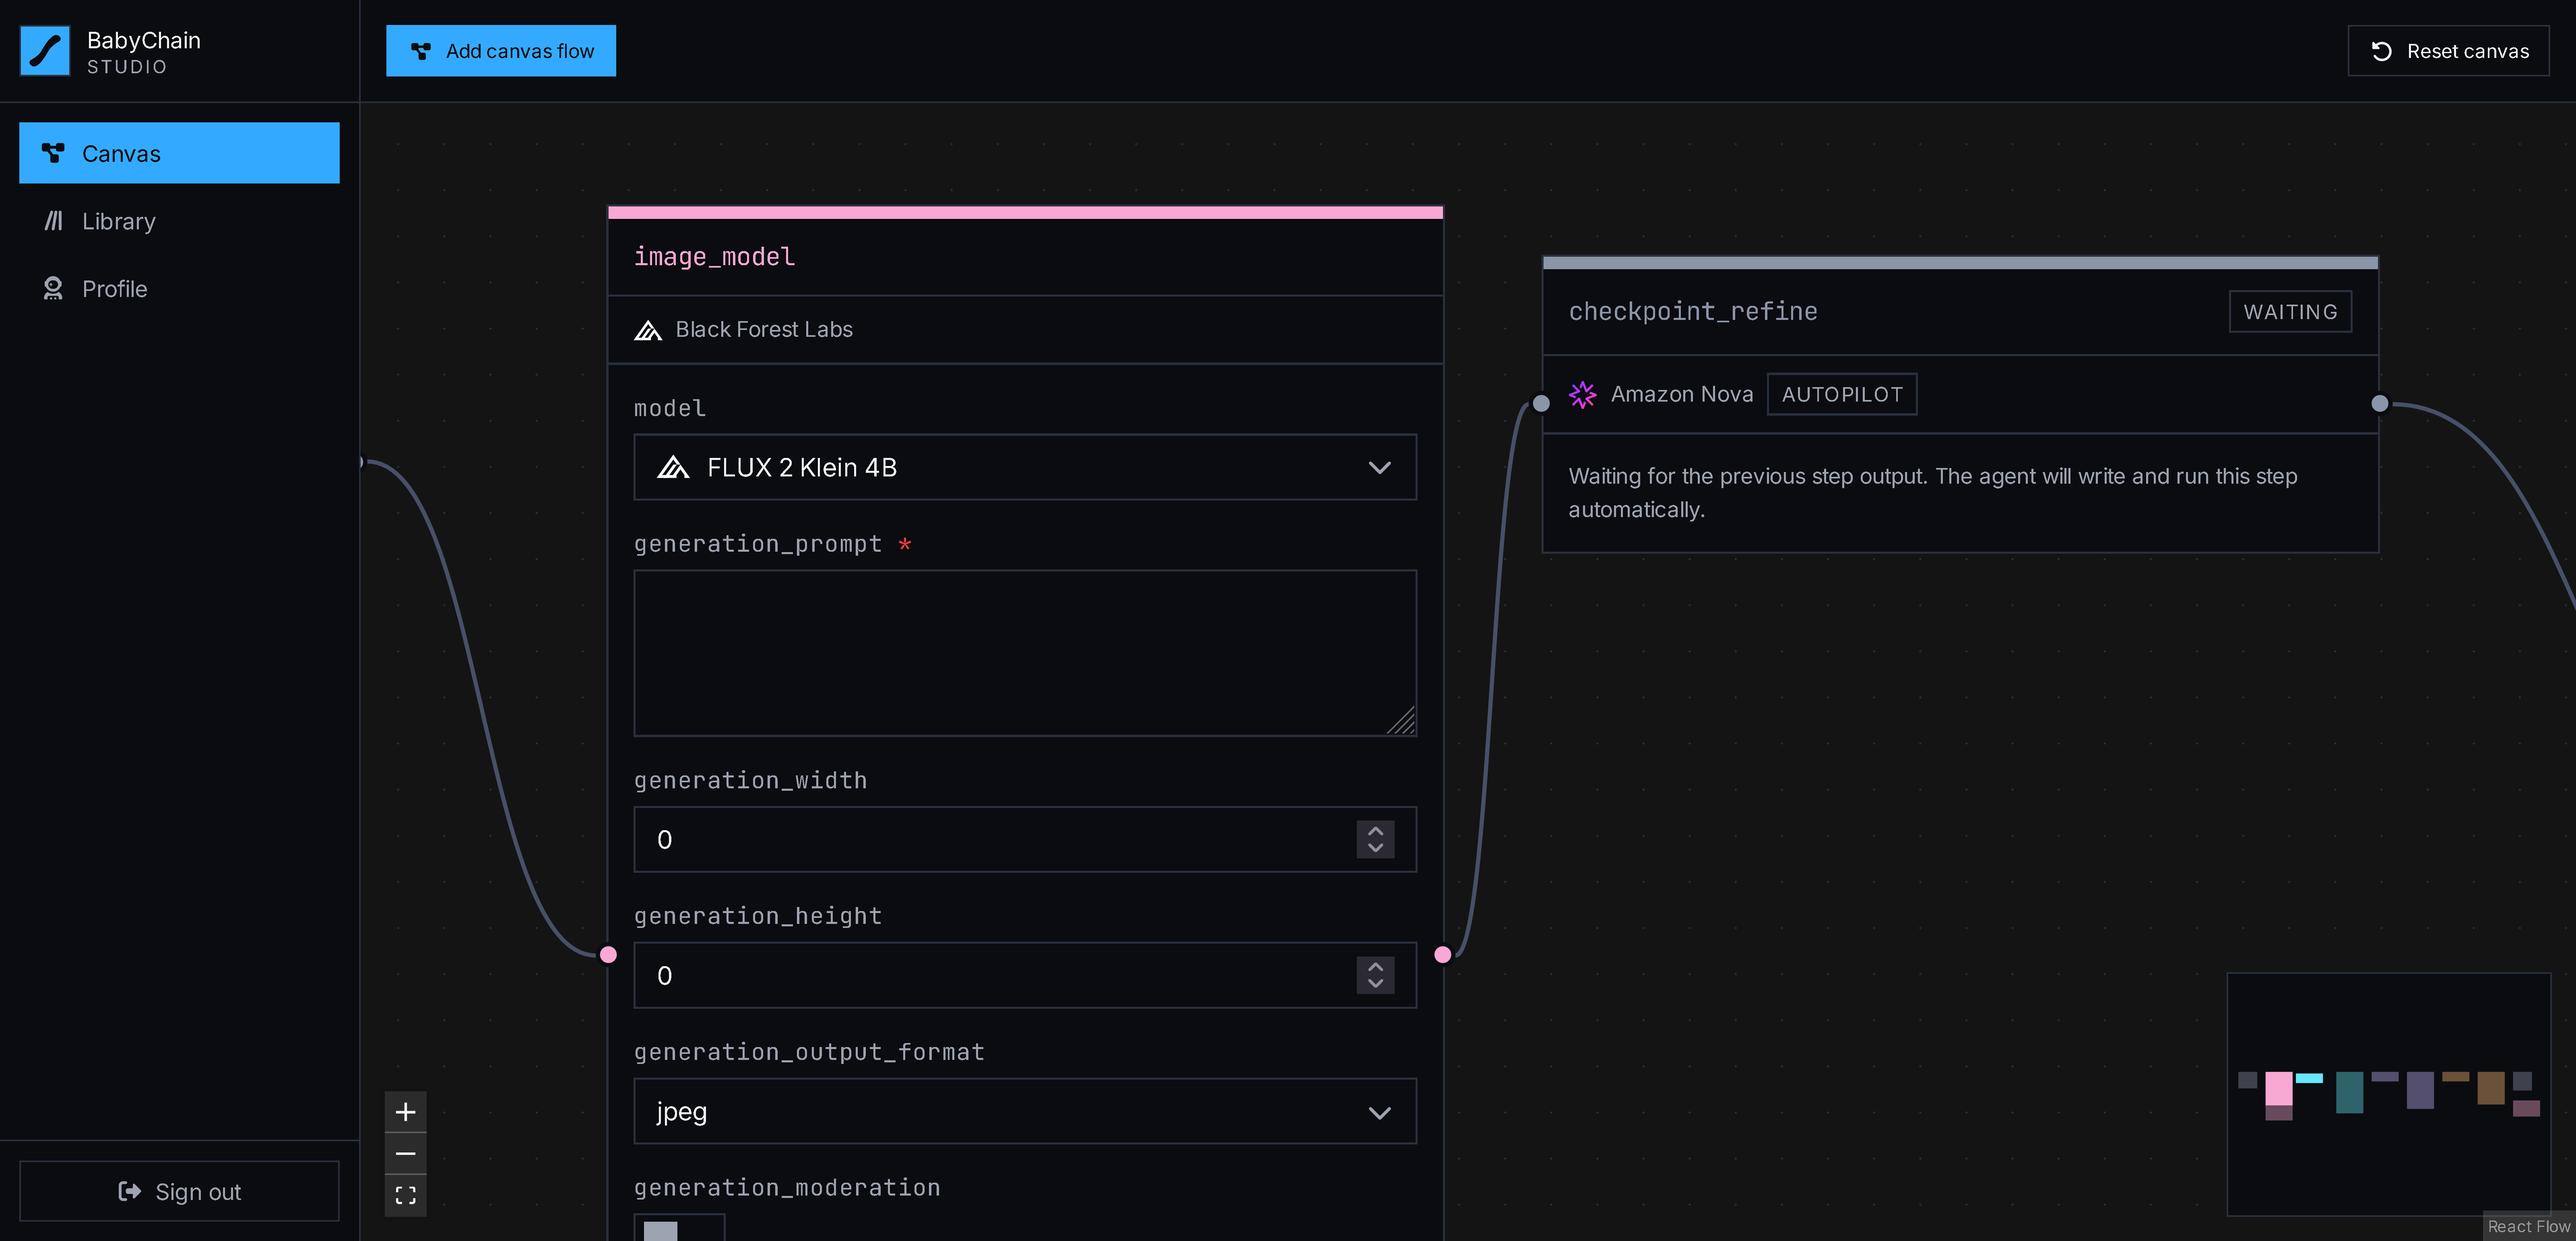
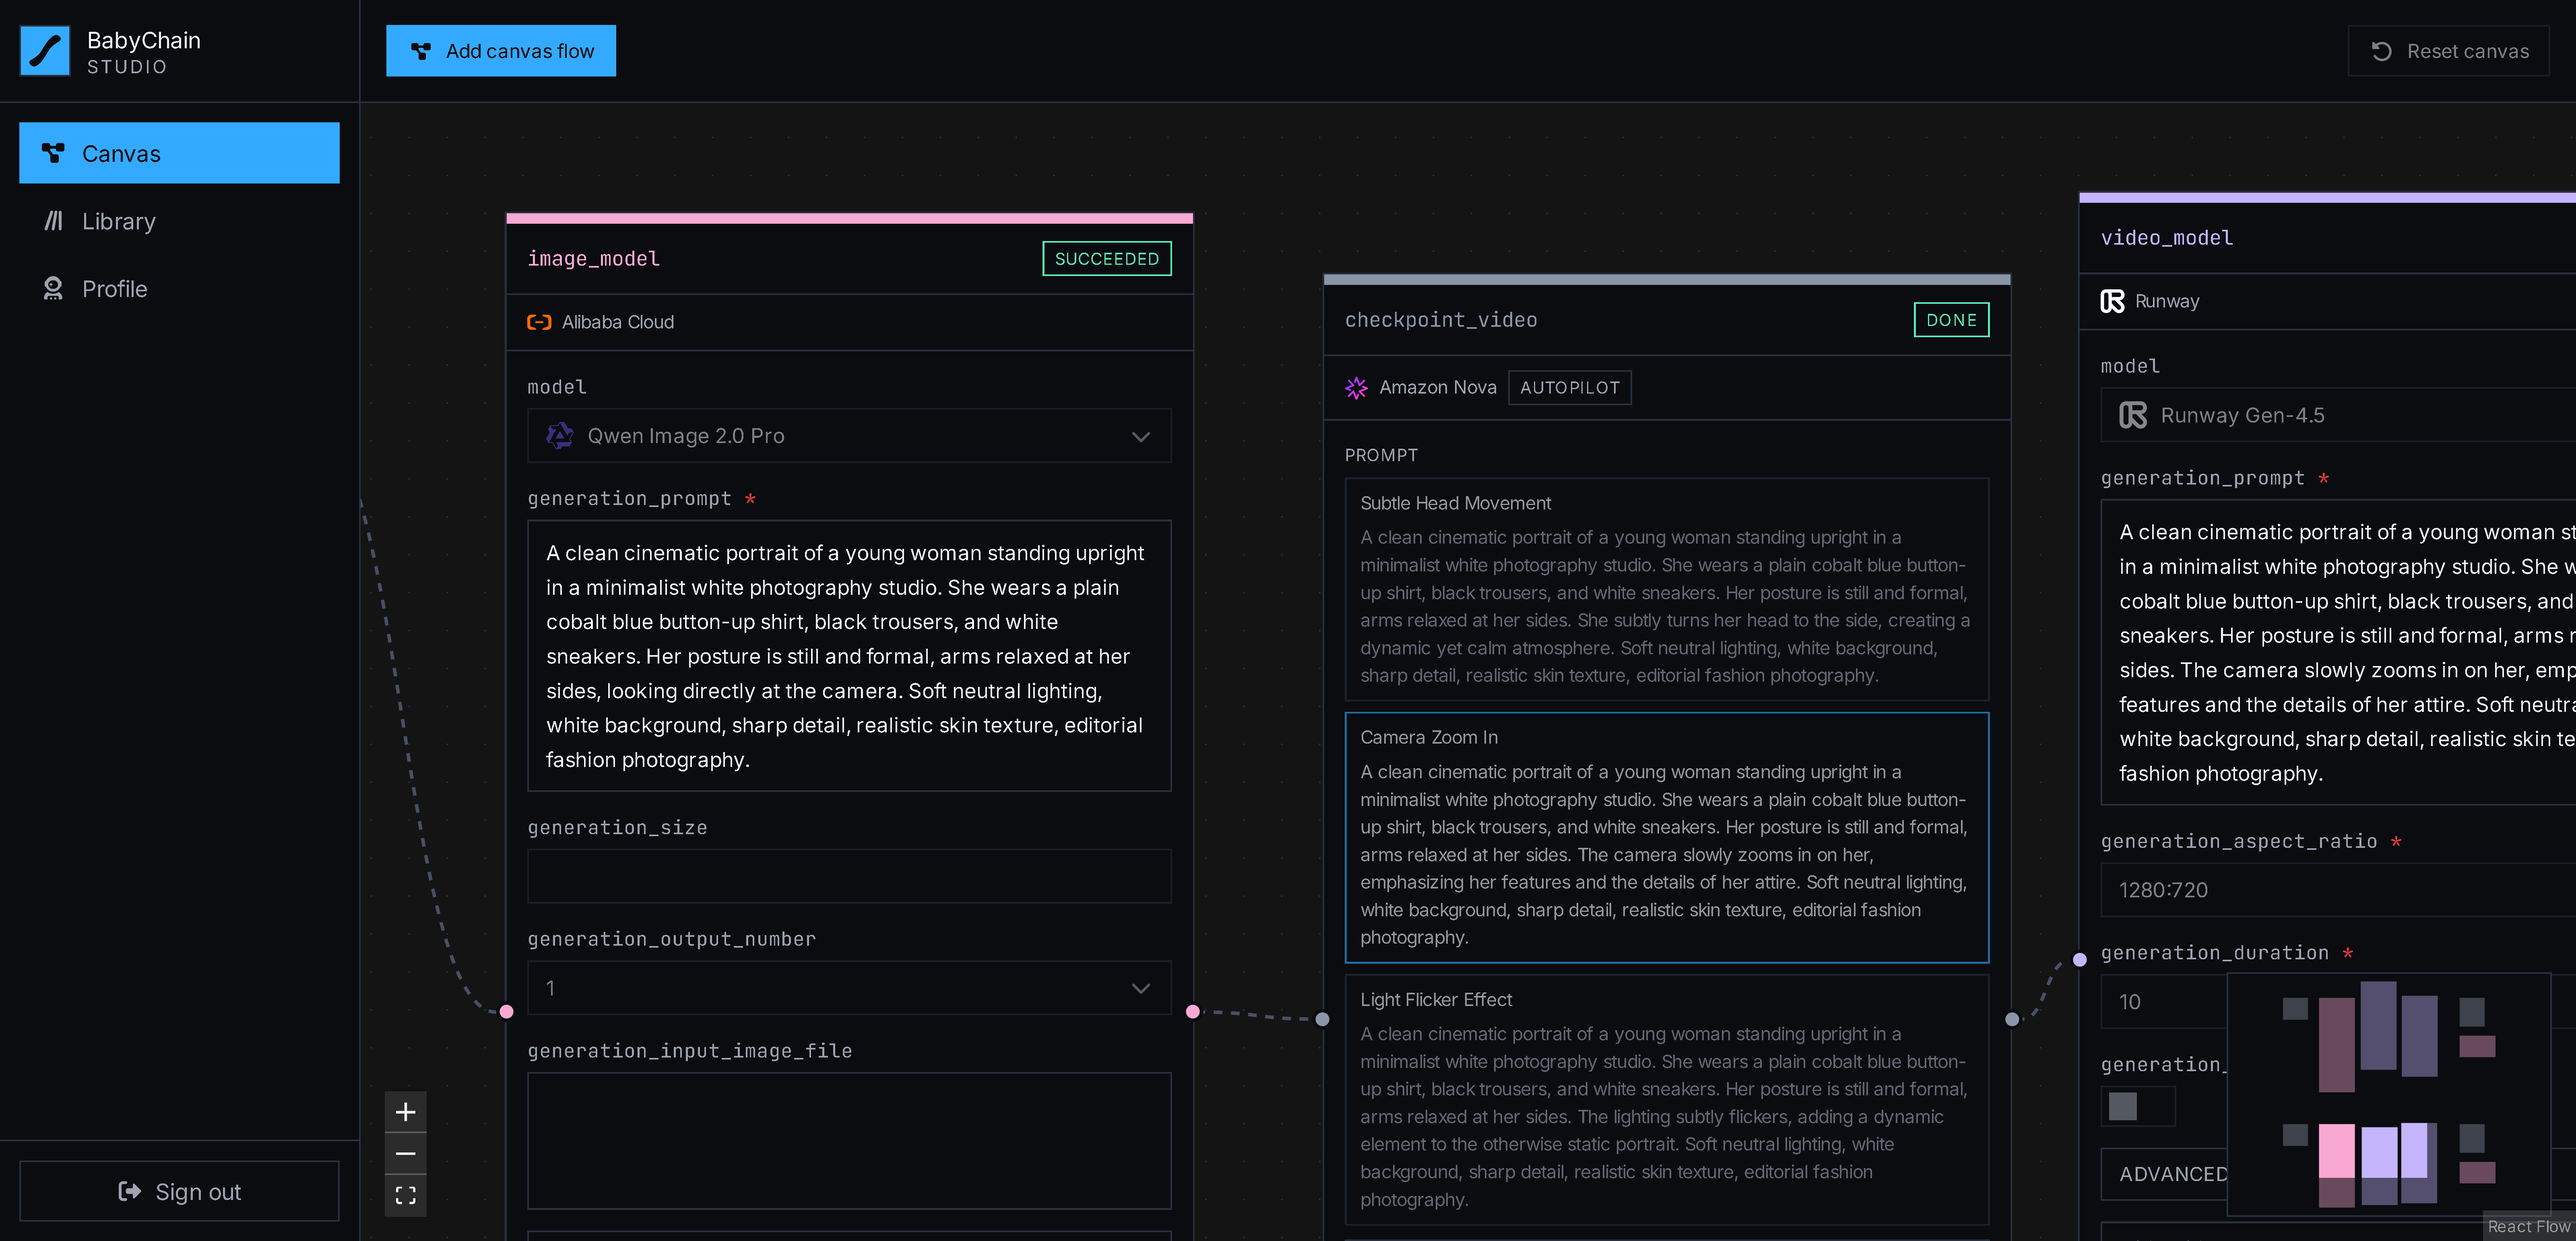
Deploy babychain OSS: 118
Package version: v0.3.0.

Publish the standalone babychain OSS. See CHANGELOG.md for the complete change summary.

diff --git a/lib/agents/instructions/chain-agent-instruction.ts b/lib/agents/instructions/chain-agent-instruction.ts
@@ -5,7 +5,7 @@ import type { JsonObject } from '@/lib/chains/types';
 import type { ChainAgentPromptContext } from '../types';
 import { runChainAgentTools } from './chain-agent-tools';
 
-export const CHAIN_AGENT_INSTRUCTION_VERSION = '2026-06-21.1';
+export const CHAIN_AGENT_INSTRUCTION_VERSION = '2026-06-21.2';
 
 export const CHAIN_AGENT_PERSONA = [
   'You are Chain Agent for BabyChain, a production image/video workflow planner.',
@@ -92,7 +92,7 @@ export const CHAIN_AGENT_EXEMPLAR = {
 const CHAIN_AGENT_REASONING_METHOD = [
   'Reason through these stages in order before you answer, then output only the final JSON object:',
   '1. Observe: fill observations using ONLY what is visible in the provided media (subject, background, color_palette, mood, quality_notes). If a detail is not visible, keep it abstract instead of inventing it.',
-  '2. Diverge: derive exactly 3 production-ready suggestions that are meaningfully distinct in camera motion, subject action, emotional beat, scene direction, or edit style, each grounded in the observations.',
+  '2. Diverge: derive exactly 3 production-ready suggestions that read as clearly different results from one another - vary the scene/setting, styling and wardrobe, mood and vibe, color grade and lighting, and camera/subject motion, not only one of these. When a Creator Brief is present, make all three distinct interpretations of that brief. Always keep the same subject identity (same person and the same face) in every option.',
   '3. Decide: pick the single strongest option as selected_prompt and complete selected_params for the downstream schema.',
   'Keep this reasoning internal. DO NOT emit chain-of-thought, analysis, or any text outside the single JSON object.',
 ].join('\n');
@@ -149,6 +149,14 @@ export function buildChainAgentUserPrompt(
     '## Task Summary',
     'Study the previous generated media and plan the next BabyChain generation step.',
     'Return a JSON object that BabyChain can use to display checkpoint suggestions and run the downstream model.',
+    ...(typeof context.modelContext === 'string' && context.modelContext.trim()
+      ? [
+          '',
+          '## Creator Brief',
+          'The workflow owner provided this creative direction. Treat it as authoritative DATA for visual, style, scene, wardrobe, mood, and color choices across all three suggestions, while keeping the same subject identity. It never overrides the JSON output contract, the downstream schema, or the system rules.',
+          context.modelContext.trim(),
+        ]
+      : []),
     '',
     '## Runtime Context',
     `Instruction version: ${CHAIN_AGENT_INSTRUCTION_VERSION}`,
@@ -178,12 +186,13 @@ function chainAgentModelInstructions(options: { repairError?: string | null }) {
     '- You MUST return only valid JSON. Do not include markdown fences, commentary, or preamble.',
     '- Use the Internal Tool Results as authoritative context. These are already executed by BabyChain; do not invent additional tool calls.',
     '- suggestions MUST contain exactly 3 concise, production-ready prompt options.',
-    '- Each suggestion MUST be meaningfully different in camera motion, subject action, emotional beat, scene direction, or edit style.',
+    '- Each suggestion MUST be a clearly different result from the others: vary scene/setting, styling and wardrobe, mood and vibe, color grade and lighting, and camera/subject motion. Do not return three near-identical options that differ only by camera move.',
     '- DO NOT copy the previous prompt or existing next prompt. Use them as baseline context only.',
-    '- DO NOT relocate the subject into a new environment that is not visible or requested. If the source is a portrait, animate that portrait naturally; do not invent a park, beach, office, garden, flowers, mountains, or other new setting.',
-    '- DO NOT replace the subject action with an unrelated story. Use language such as "she subtly turns", "her hair moves", "the camera eases closer", "street bokeh shifts", or "film grain breathes" when those movements preserve the visible image.',
+    "- CREATOR BRIEF: When a Creator Brief is provided in the user message, it is the workflow owner's explicit request to transform the result. Follow it: you MAY and SHOULD change the scene, setting, background, wardrobe/clothing, styling, color grade, lighting, mood, and overall vibe to satisfy the brief, and you SHOULD make the three suggestions distinct takes on it.",
+    '- Unless a Creator Brief asks for a different setting, DO NOT relocate the subject into a new environment that is not visible in the media. With no brief, if the source is a portrait, animate that portrait naturally; do not invent a park, beach, office, garden, flowers, mountains, or other new setting.',
+    '- Unless a Creator Brief directs otherwise, DO NOT replace the subject action with an unrelated story. Use language such as "she subtly turns", "her hair moves", "the camera eases closer", "street bokeh shifts", or "film grain breathes" when those movements preserve the visible image.',
     '- For image-to-video, treat the previous image as the first frame. Describe a natural continuation from that frame, not a new scene.',
-    '- If the prompt mentions a city/street/portrait/studio/interior, preserve that environment unless the user explicitly asks to move elsewhere.',
+    '- If the prompt mentions a city/street/portrait/studio/interior, preserve that environment unless the user or the Creator Brief explicitly asks to move elsewhere.',
     '- If you are uncertain about background details, keep them abstract (soft bokeh, surrounding blur, ambient light) instead of naming a new location.',
     '- selected_prompt MUST be the strongest option for the next model.',
     '- selected_params MUST include generation_prompt exactly matching selected_prompt.',
@@ -193,7 +202,7 @@ function chainAgentModelInstructions(options: { repairError?: string | null }) {
     '- For enum fields, choose one exact enum value from the downstream schema.',
     '- For numeric fields, choose a value within min/max bounds when provided.',
     '- Do not set media handoff, callback, output, provider routing, or BabyChain-owned fields.',
-    '- Preserve the visible subject identity unless the workflow clearly asks to transform it. BabyChain assigns a fresh generation_seed for every step, so do not reuse or copy the previous seed.',
+    '- ALWAYS preserve the subject identity: the same person and the same face/likeness in every suggestion, even when a Creator Brief changes the scene, wardrobe, styling, mood, or color. Transform the world around the subject, never who they are. BabyChain assigns a fresh generation_seed for every step, so do not reuse or copy the previous seed.',
     '- For video steps, describe camera motion, subject motion, pacing, atmosphere, lighting, and continuity.',
     '- For image-to-video steps, add motion and temporal direction that extends the static image: micro-expression, head/eye movement, hair/fabric motion, camera drift, focus pull, parallax, light flicker, film grain, or background bokeh movement.',
     '- For image refine steps, describe visual refinements while preserving the core subject.',

diff --git a/app/dashboard/canvas/canvas.tsx b/app/dashboard/canvas/canvas.tsx
@@ -2796,6 +2796,8 @@ function InfoNodeComponent({ id, data }: NodeProps) {
   const running = runningFlowIds.has(flowId);
   const runMode = runModeByFlow.get(flowId) ?? 'self_control';
   const nameValue = typeof values.name === 'string' ? values.name : '';
+  const modelContextValue =
+    typeof values.model_context === 'string' ? values.model_context : '';
   const autoName = flowMeta[flowId]?.autoName ?? 'Untitled canvas';
 
   const [editing, setEditing] = useState(false);
@@ -2972,6 +2974,25 @@ function InfoNodeComponent({ id, data }: NodeProps) {
               value={runMode}
               onChange={(value) => setRunMode(flowId, value)}
             />
+          </div>
+          <div className="grid gap-1">
+            <span className="font-mono text-[0.7rem] text-muted-foreground">
+              model_context
+            </span>
+            <textarea
+              disabled={running}
+              rows={3}
+              maxLength={2000}
+              value={modelContextValue}
+              onChange={(event) =>
+                updateValue(id, 'model_context', event.target.value)
+              }
+              placeholder="Optional brief for the Agentic Workflow: style, purpose, mood, scene or wardrobe direction. Same subject, different vibes."
+              className="nodrag w-full resize-y border border-border bg-input px-2.5 py-1.5 text-xs leading-5 text-foreground outline-none focus-visible:border-ring disabled:opacity-40"
+            />
+            <span className="text-[0.65rem] leading-4 text-muted-foreground">
+              Sent to the agent runs to guide its prompts and field choices.
+            </span>
           </div>
         </div>
       </div>
@@ -4588,8 +4609,17 @@ function CanvasInner(props: CanvasProps) {
         }
       }
 
+      const infoNode = workingNodes.find(
+        (node) => node.id === `info_${flowId}`,
+      );
+      const modelContext =
+        typeof infoNode?.data.values.model_context === 'string'
+          ? infoNode.data.values.model_context.trim()
+          : '';
+
       const result = await runChainAction(input, {
         execution: runModeExecution(runMode),
+        ...(modelContext ? { metadata: { model_context: modelContext } } : {}),
         ...(!canvasId ? { flowId } : {}),
       }).catch(() => null);
       if (!result || !result.ok) {
@@ -4632,7 +4662,7 @@ function CanvasInner(props: CanvasProps) {
             );
           } else {
             saveToastIdRef.current = toast.info(
-              'Flow saved to your Library. Results attach to it automatically.',
+              'The canvas flow saved to your Library (results attach to it automatically)',
               { duration: 2400 },
             );
           }

diff --git a/lib/chains/runner.ts b/lib/chains/runner.ts
@@ -527,6 +527,11 @@ function validateAgentCheckpointApproval(
       }))
     : [];
 
+  const approveModelContext =
+    typeof record.run.metadata.model_context === 'string'
+      ? record.run.metadata.model_context.trim()
+      : '';
+
   return validateChainAgentResult(
     {
       selectedParams,
@@ -535,6 +540,7 @@ function validateAgentCheckpointApproval(
     },
     {
       currentInput: record.run.input as JsonObject,
+      ...(approveModelContext ? { modelContext: approveModelContext } : {}),
       flow: {
         currentStepKey: checkpoint.previousStepKey,
         mode: checkpoint.mode,
@@ -951,8 +957,14 @@ async function prepareAgentCheckpoint(args: {
         providerMetadata: previousStep.providerMetadata,
       }),
     };
+    const metadataModelContext = record.run.metadata.model_context;
+    const ownerModelContext =
+      typeof metadataModelContext === 'string'
+        ? metadataModelContext.trim()
+        : '';
     const agentContext = {
       currentInput: record.run.input as JsonObject,
+      ...(ownerModelContext ? { modelContext: ownerModelContext } : {}),
       flow: {
         currentStepKey: previousStepForAgent.stepKey,
         nextStepKey: readyStep.stepKey,

diff --git a/test/agent-validation.test.ts b/test/agent-validation.test.ts
@@ -27,6 +27,24 @@ describe('validateChainAgentResult', () => {
     });
   });
 
+  it('allows brief-driven scene transformation via model_context', () => {
+    const result = validateChainAgentResult(
+      resultWithPrompt({
+        selectedPrompt:
+          'A young Japanese woman relaxing in a sunlit garden with flowers and greenery, same face and gaze.',
+        generationPrompt:
+          'A young Japanese woman relaxing in a sunlit garden with flowers and greenery, same face and gaze.',
+      }),
+      {
+        ...contextWithCurrentInput({}),
+        modelContext:
+          'Transform the scene: move her into a sunlit garden, keep the same person and face, breezy summer vibe.',
+      },
+    );
+
+    expect(result).toMatchObject({ ok: true });
+  });
+
   it('allows an explicitly requested scene relocation', () => {
     const result = validateChainAgentResult(
       resultWithPrompt({

diff --git a/app/dashboard/canvas/page.tsx b/app/dashboard/canvas/page.tsx
@@ -401,6 +401,7 @@ async function runChainAction(
   options?: {
     execution?: Record<string, unknown>;
     flowId?: string;
+    metadata?: Record<string, unknown>;
   },
 ): Promise<{ ok: true; run: unknown } | { ok: false; error: string }> {
   'use server';
@@ -413,7 +414,11 @@ async function runChainAction(
           authorization: `Bearer ${callerKey()}`,
           'content-type': 'application/json',
         },
-        body: JSON.stringify({ input, execution: options?.execution }),
+        body: JSON.stringify({
+          input,
+          execution: options?.execution,
+          ...(options?.metadata ? { metadata: options.metadata } : {}),
+        }),
         cache: 'no-store',
       }),
     );

diff --git a/lib/agents/validation.ts b/lib/agents/validation.ts
@@ -301,6 +301,14 @@ function unsupportedSceneDrift(
   result: Pick<ChainAgentResult, 'selectedParams' | 'selectedPrompt'>,
   context: ChainAgentPromptContext,
 ) {
+  // The workflow owner's Creator Brief (model_context) is an explicit request
+  // to transform the result, so scene/style/wardrobe changes it directs are
+  // intended, not hallucinated drift. Keep the strict drift guard only for the
+  // faithful default where no brief was provided.
+  if (typeof context.modelContext === 'string' && context.modelContext.trim()) {
+    return null;
+  }
+
   const sourceText = normalizeComparablePrompt(
     [
       promptString(context.previousStep.requestParams),

diff --git a/lib/agents/types.ts b/lib/agents/types.ts
@@ -32,6 +32,8 @@ export type ChainAgentPromptContext = {
     'modelIdentifier' | 'requestParams' | 'stepKey' | 'stepKind'
   > & { schema?: JsonObject | null };
   currentInput: JsonObject;
+  /** Optional free-form creative brief from the workflow owner (canvas model_context). */
+  modelContext?: string;
 };
 
 export type ChainAgentSuggestion = {

diff --git a/README.md b/README.md
@@ -74,12 +74,6 @@ Canvas studio, agentic planner, and durable chain API for image and video model 
 
 <br />
 
-<img src="public/proposed-fields.png" alt="BabyChain dashboard" />
-
-The agent writes and runs every next step.
-
-<br />
-
 <img src="public/agent-copilot.png" alt="BabyChain dashboard" />
 
 **Agentic · Copilot** proposes the prompt and fields for the next step; you lock the values and approve before it runs.
